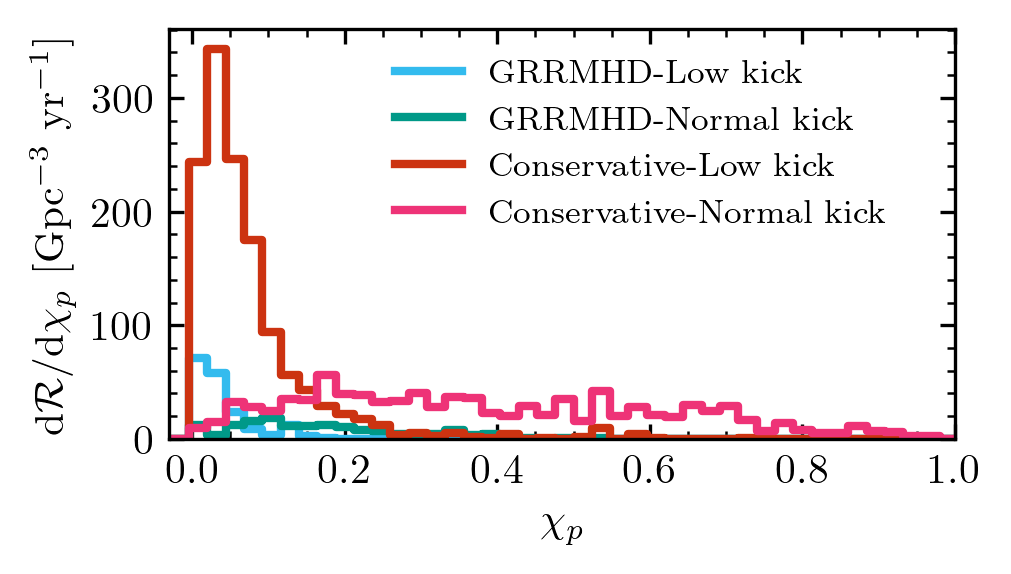
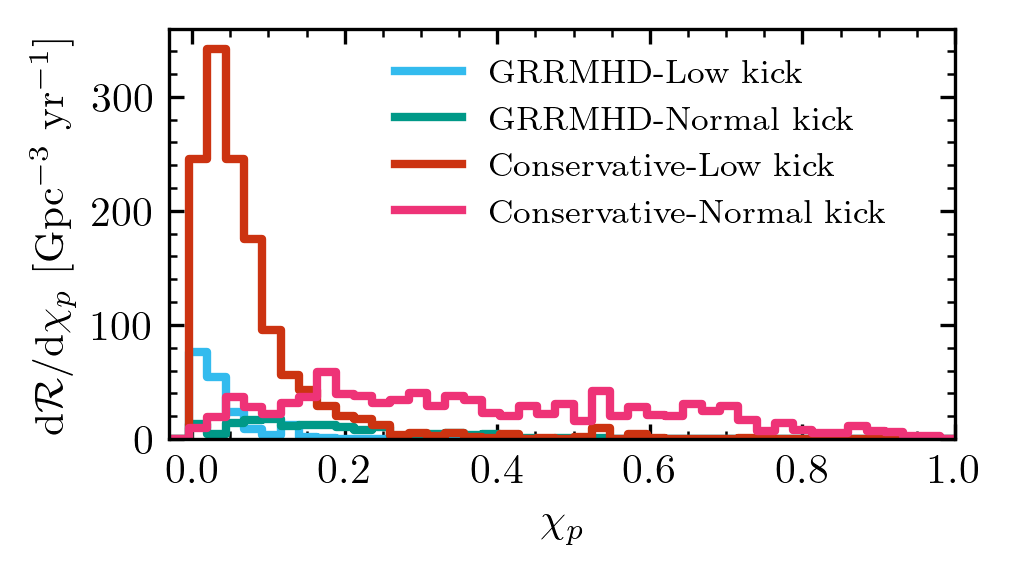
fix precession issue

diff --git a/figure_scripts/chi_p.py b/figure_scripts/chi_p.py
@@ -10,34 +10,16 @@ from posydon.popsyn.rate_calculation import get_shell_comoving_volume
 from posydon.popsyn.synthetic_population import Rates
 from scipy.stats import gaussian_kde
 
-
 def precession(theta_1, theta_2, a1, a2, m1, m2):
-    """Calculate the effective spin precession.
-
-    Following the formulation in Gerosa+2021, which
-    is used in LIGO/Virgo analyses.
-
-    Parameters
-    ----------
-    theta_1 : float or np.ndarray
-        Tilt angle of the primary spin (in radians).
-    theta_2 : float or np.ndarray
-        Tilt angle of the secondary spin (in radians).
-    a1 : float or np.ndarray
-        Dimensionless spin magnitude of the primary.
-    a2 : float or np.ndarray
-        Dimensionless spin magnitude of the secondary.
-    m1 : float or np.ndarray
-        Mass of the primary.
-    m2 : float or np.ndarray
-        Mass of the secondary.
-    """
-    q = m2 / m1
-    a_1_perp = np.abs(a1 * np.sin(theta_1))
-    a_2_perp = q * ((4 * q + 3) / (4 + 3 * q)) * a2 * np.sin(theta_2)
-    chi_p = np.maximum(a_1_perp, a_2_perp)
+    """Effective precession spin (Gerosa+2021, Eq. 14), ordered by mass."""
+    swap = m2 > m1
+    m_hi, m_lo = np.where(swap, m2, m1), np.where(swap, m1, m2)
+    a_hi, a_lo = np.where(swap, a2, a1), np.where(swap, a1, a2)
+    t_hi, t_lo = np.where(swap, theta_2, theta_1), np.where(swap, theta_1, theta_2)
+    q = m_lo / m_hi
+    chi_p = np.maximum(a_hi * np.abs(np.sin(t_hi)),
+                       q * (4*q + 3) / (4 + 3*q) * a_lo * np.abs(np.sin(t_lo)))
     return chi_p
-
 
 plt.style.use(
     str(Path(PATH_TO_POSYDON) / "posydon" / "visualization" / "posydon.mplstyle")
